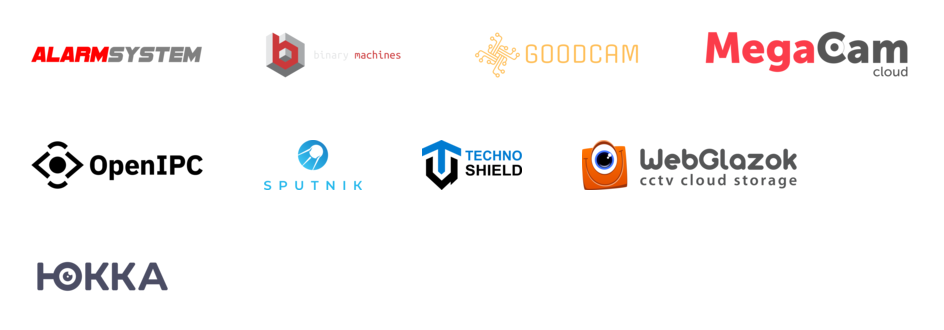
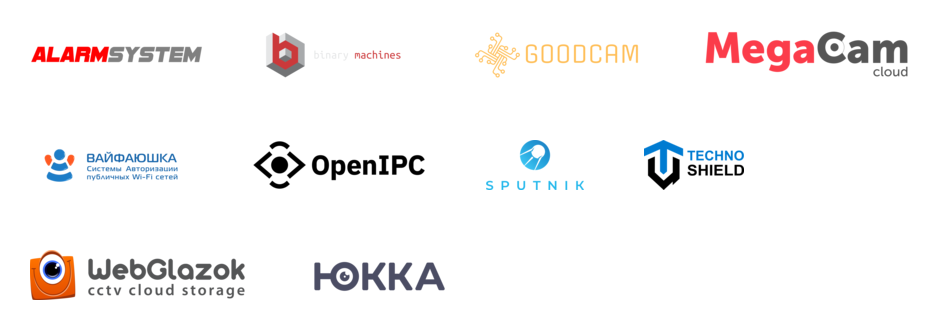
Add partner

diff --git a/docs/index.md b/docs/index.md
@@ -37,6 +37,8 @@
 
 [![MEGACAM logo](https://openipc.github.io/images/partner_megacam_mini.png "MEGACAM logo")](http://megacam.kz)
 
+[![MYWIFI-CC logo](https://openipc.github.io/images/partner_mywifi-cc_mini.png "MYWIFI-CC logo")](https://xn--80aaaf0bh2e7a5c.xn--p1ai/)
+
 [![OPENIPC logo](https://openipc.github.io/images/partner_openipc_mini.png "OPENIPC logo")](https://openipc.org)
 
 [![SPUTNIK logo](https://openipc.github.io/images/partner_sputnik_mini.png "SPUTNIK logo")](https://sputnik.systems)
